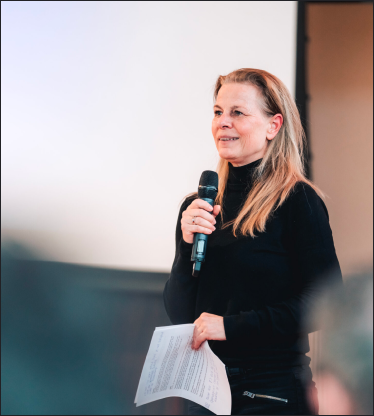
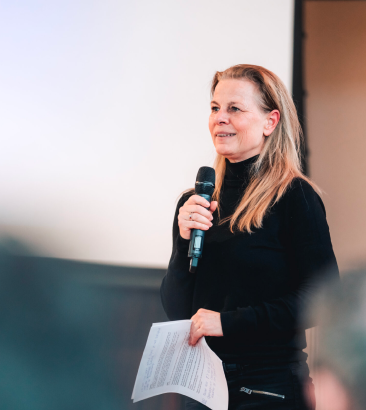
wijziging formaat afbeelding

diff --git a/styles/detailpagina.css b/styles/detailpagina.css
@@ -123,6 +123,7 @@ section.top {
 
     img.height {
         margin-top: var(--size-lg);
+        border: var(--border);
     }
 
     p {
@@ -131,7 +132,6 @@ section.top {
 
     @media (width > 48rem) {
         padding-top: var(--size-sm);
-        max-width: 56.25em;
 
         h1 {
             margin-top: var(--size-sm);
@@ -141,6 +141,10 @@ section.top {
         p {
             line-height: 2.5rem;
             /* padding-top: var(--size-sm); */
+        }
+
+        img.height {
+            content: url("../assets/leden-groot.png");
         }
     }
 }
